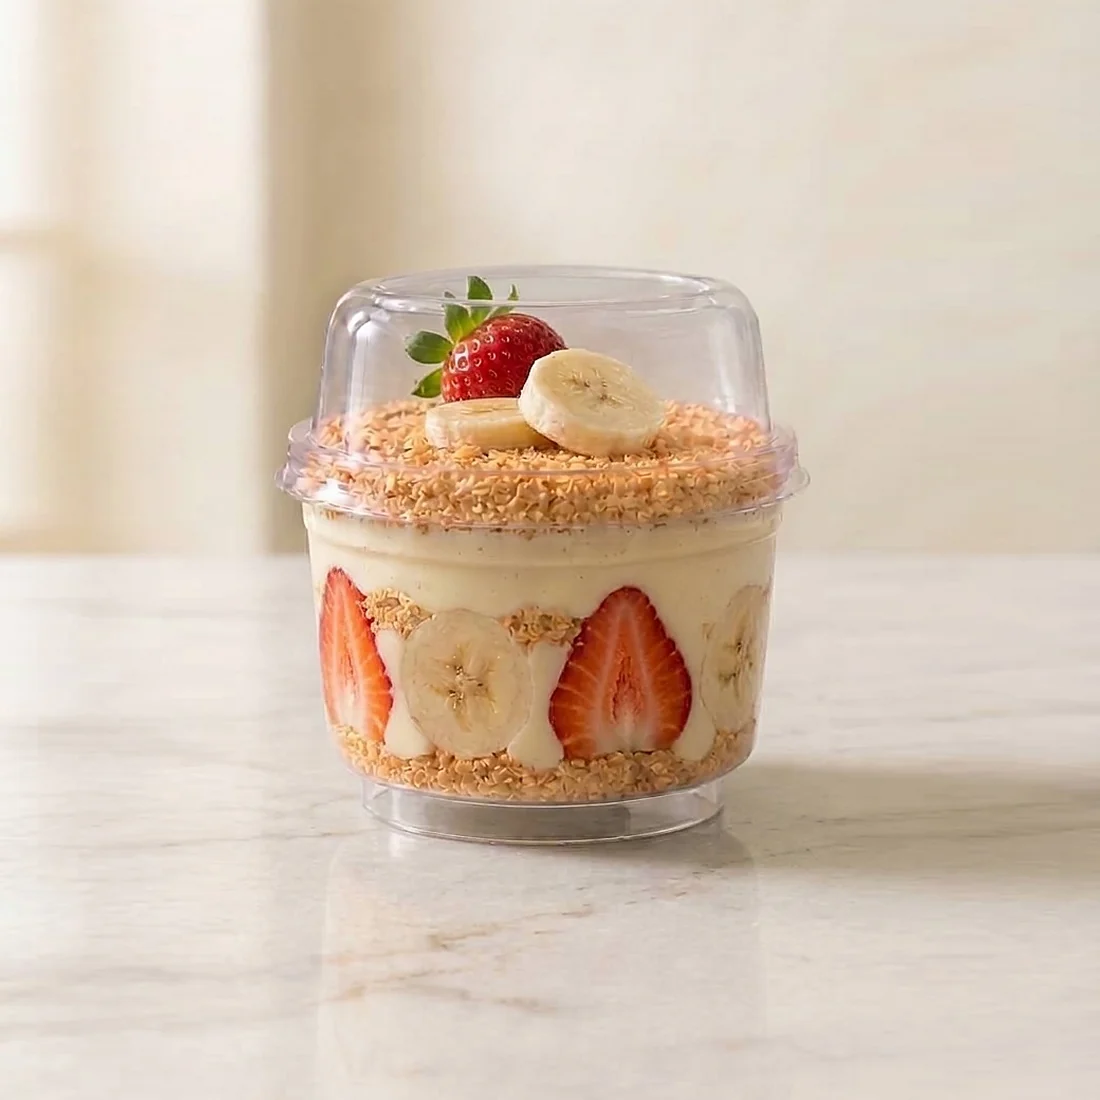
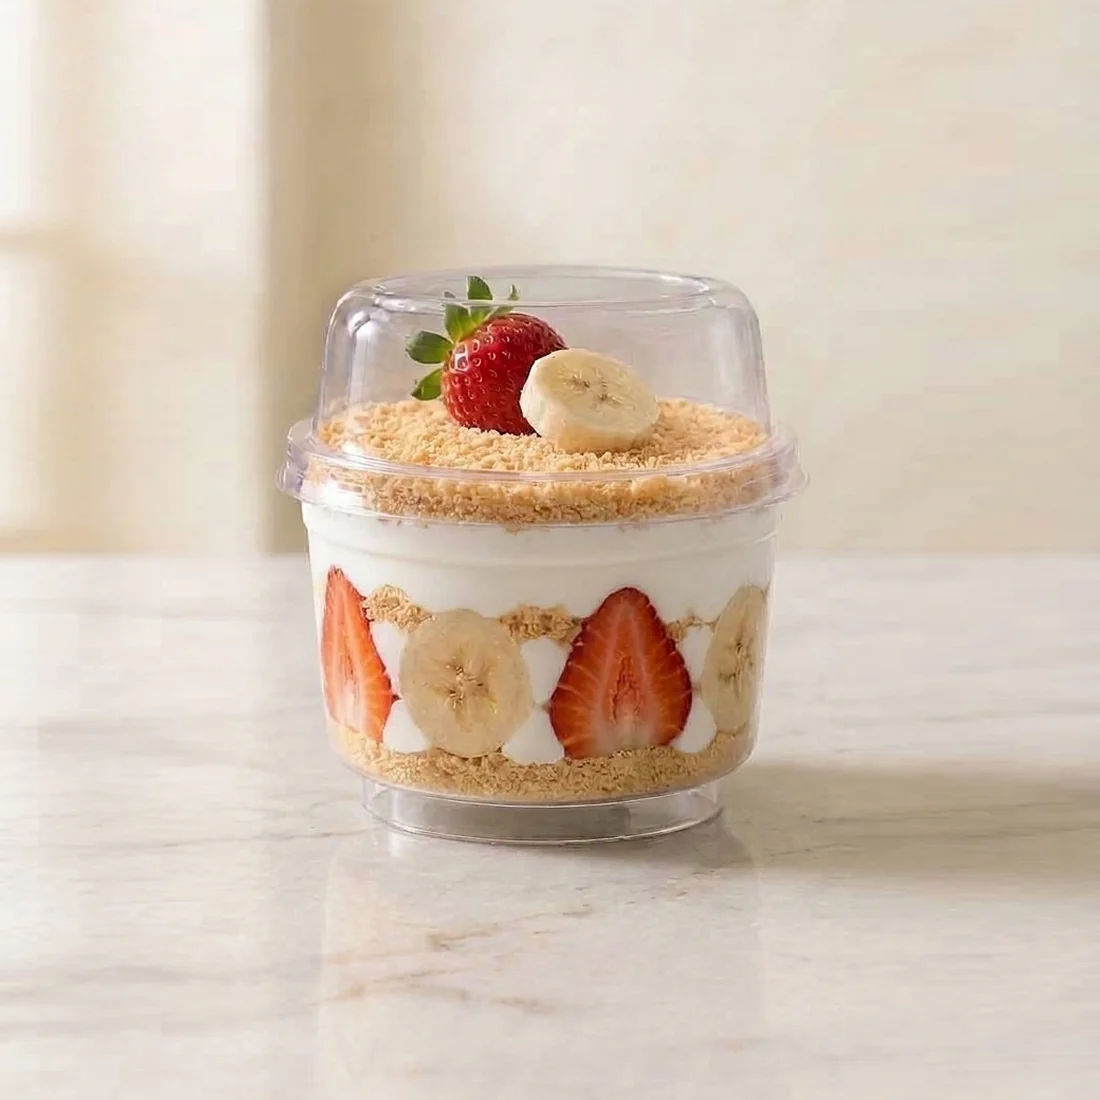
görsel düzenlemeler

Changed region(s): [[0.2473, 0.3091, 0.7418, 0.7418], [0.2782, 0.6182, 0.3091, 0.6491]]

diff --git a/src/data/layers.ts b/src/data/layers.ts
@@ -104,8 +104,8 @@ const seeds: Seed[] = [
     slug: 'cilekli-cikolatali-magnolya',
     names: ['Bisküvi kırığı', 'Çikolata sosu', 'Taze çilek', 'Bisküvi tabanı'],
     colors: [K, CH, S, K],
-    cup: { x: 72, y: [40, 47, 59, 68] },
-    jar: { x: 74, y: [42, 50, 65, 76] },
+    cup: { x: 71, y: [44, 48, 62, 70] },
+    jar: { x: 71, y: [47, 53, 66, 76] },
   },
   {
     slug: 'muzlu-cikolatali-magnolya',

diff --git a/instagram/gemini-komutlari.md b/instagram/gemini-komutlari.md
@@ -34,6 +34,28 @@ Muzlu'da öğrendiklerimiz:
 - Kavanozda tek görselle iki denemede de meyvelerin üstündeki bisküvi bandı silindi ve dilimler birbirine değdi. Net kupayı ikinci görsel olarak verince Gemini düzeni oradan aldı.
 - Kupada muzun görünüşü için ikinci görsel vermek işe yaramadı: Gemini o görseldeki dizilimi de kopyaladı. Dilimleri Çilekli'deki gibi ayrık ve araları krema dolu yapmak için tek görselle "yalnızca çilekleri değiştir" diye yazmak, dilimi çilekten biraz dar istemek ve aradaki dikey krema şeritlerini açıkça tarif etmek gerekti.
 
+- Ürün sitedeki orijinalle aynı olmalı. En sadık sonuç için ikinci görsel olarak orijinal verilir (`git show f36d10b^:public/images/products/<slug>.webp`). Yalnızca metinle Gemini kremayı, kırıkları ve süsü kendine göre değiştiriyor. Çilekli Çikolatalı böyle yapıldı:
+
+```text
+Edit the first photo. Keep from it only the container, its size, position and camera angle, the marble countertop, background and light. Same image size as the first photo, no text. Change the dessert inside so it is the same dessert as in the second photo, with the same layers from top to bottom and the same topping. Crisp, in perfect focus, photorealistic.
+```
+
+- Kırıklar tek tip tane olmamalı: olabildiğince ince, karışık boyutlu. "Ezilmiş bisküvi" yazınca Gemini iri parça ekliyor. İşe yarayan tarif, görselin üstünden ayrı bir turda:
+
+```text
+Edit this photo. Change only the texture of the biscuit crumbs; do not change anything else. Each crumb layer keeps exactly the same shape, height and position and stays completely full and dense. Replace them with very finely ground tea biscuit crumbs in a warm pale golden beige, like coarse sand: most of the layer is very fine sandy crumbs and biscuit powder, naturally mixed with tiny irregular bits of slightly different sizes. The largest bit is only about the size of a strawberry seed; no big chunks, no flakes, no sticks, no round beads, no pattern. Dense, matte, dry and natural.
+```
+
+- Oreo'da aynı tarif parlak siyah çakıl gibi tek tip çıktı. Üç ek tur gerekti: önce "real crushed Oreo: soft, matte, fine cocoa cookie powder, mixed with irregular bits", sonra iri parçaları küçült ("about three quarters is very fine powder and sandy crumbs, none bigger than a strawberry seed"), en son yalnızca rengi koyulaştır ("deep, almost black, matte, a few very tiny specks of white cream"). İnceltme turu rengi kahverengiye çekiyor, son tur bunun için.
+
+- 2026-11-07'den beri krema beyaz, kırıklar ince ve karışık (temel görseller de öyle; sarı kremalılar `yeni-gorseller/eski/*-sari-krema.*`). Referans görsel vermek bu değişikliği yaptırmıyor: Gemini neredeyse hiçbir şeyi değiştirmedi. Tek görsel ve açık tarif işe yarıyor, kaynak olarak en net görsel verilmeli:
+
+```text
+Edit this photo. Change only the crumb texture and the cream color; do not change anything else. The container, lid, clear foot, size, position, camera angle, marble countertop, background, light and the fruit stay exactly as they are, sharp and detailed. Every layer keeps exactly the same shape, height and position. Important: the crumb patches between the fruit at the top of the fruit row stay exactly where they are and stay crumbs, and below them the same cream strips remain; do not replace crumbs with cream. Same image size, no text. (1) The cream now looks yellow, which is wrong. Make all the cream a clean, soft, pure white milk cream, with no yellow tint. (2) The crumbs now look like coarse granules, which is wrong. Crush them much finer: very finely ground tea biscuit crumbs in a warm pale golden beige, like coarse sand: most of it is very fine sandy crumbs and biscuit powder, naturally mixed with tiny irregular bits of slightly different sizes. No big chunks, no granules, no flakes, no round beads, no pattern. Each crumb layer stays full and dense, matte, dry and natural. Crisp, in perfect focus, photorealistic.
+```
+
+Kırık türü için ikinci maddedeki tanım değişir. Oreo'da hazır beyaz kremalı görselden tek turda şu tarif tuttu: "real crushed Oreo cookies, crushed very fine, in a deep, almost black dark cocoa color, matte and not glossy: about three quarters of each layer is very fine cookie powder and sandy crumbs, mixed with small irregular bits of different sizes, none bigger than a strawberry seed, and a few very tiny specks of white cream filling. No gravel, no beads, no big chunks." Muz yuvarlak dilim kalır. Gemini kısa süreli kullanım sınırı koyabiliyor; birkaç dakika beklemek yetiyor.
+
 ### Netleştirme metni
 ```text
 Edit this photo. Keep everything exactly the same: the same container and lid, size, position, camera angle, marble countertop, background, light, the same layers and the same size, shape, position and color of every fruit piece, crumb band and cream. Only make the photo sharper and more detailed, like a crisp high-resolution food photo taken with a macro lens in perfect focus: the fruit gets crisp clean edges, fine natural texture and a slightly moist sheen; every biscuit crumb is sharp and distinct; the cream looks smooth but in focus; the background wall is smooth and clean. Keep it subtle and photorealistic, no oversharpening, no new objects. Same image size, no text.
